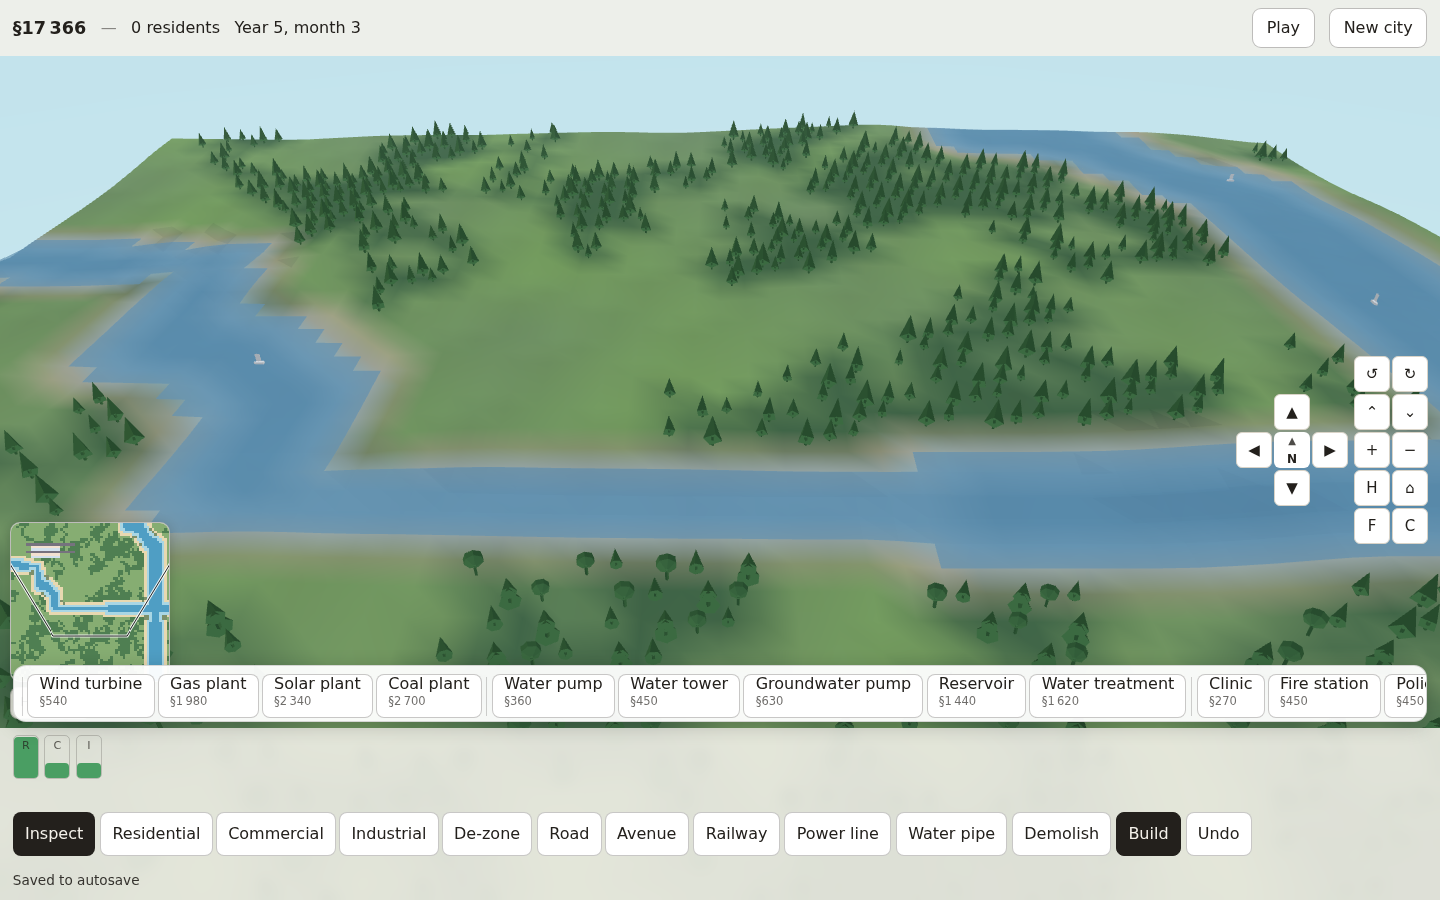
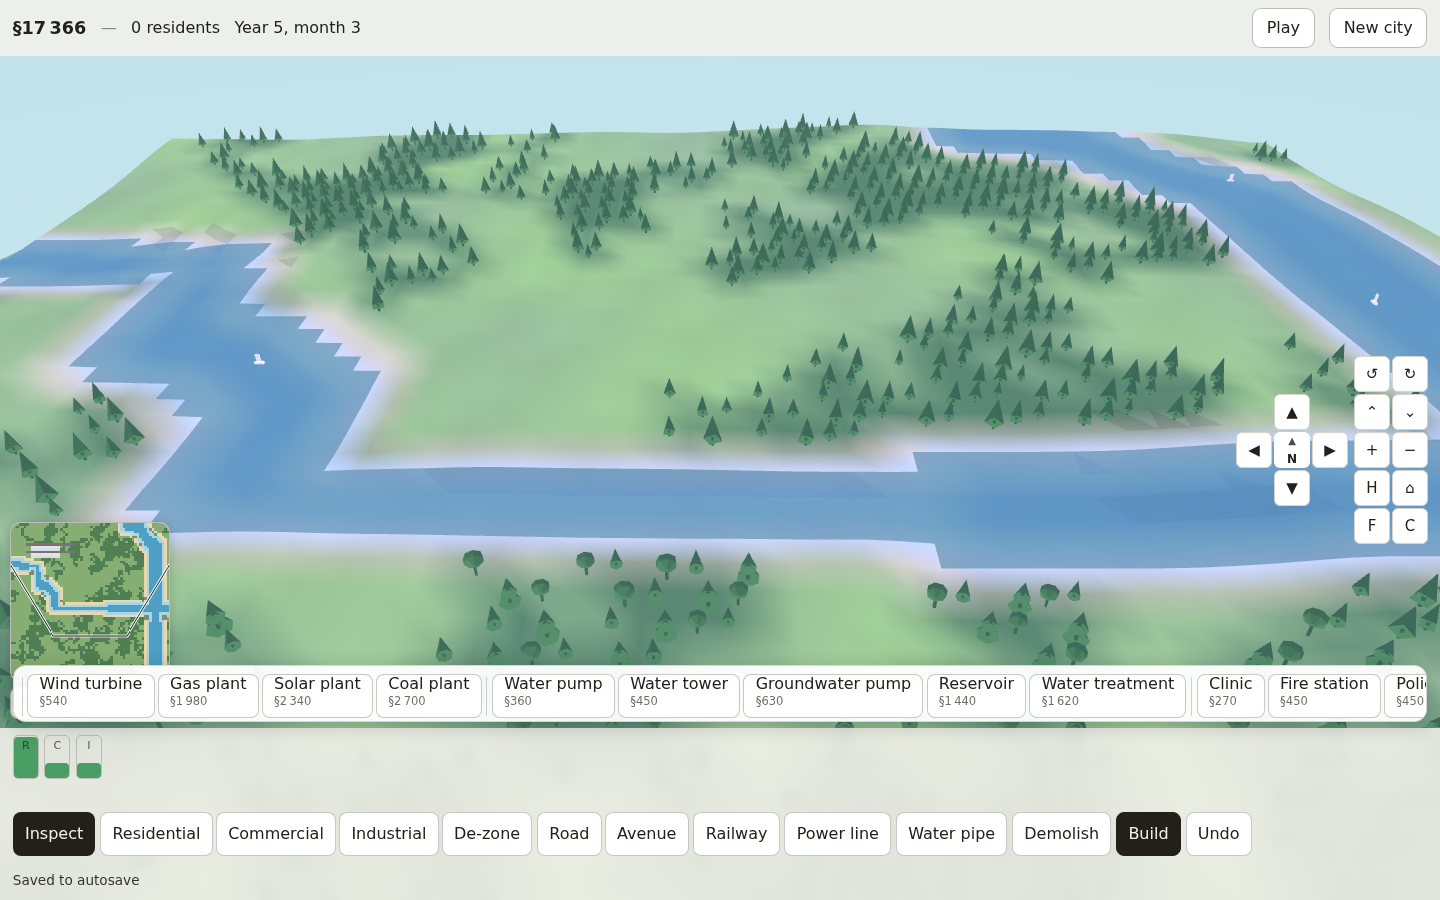
slice-S22e: the shadow's colour, and the patch that never ran
A145 asked for three things; S22d delivered two and could not do "the tint
cooler rather than the ground darker", because tintShadows patches a toon
material and plain — the style the game ships with — is Lambert. Wiring the
Lambert path found that the toon one had never worked either.

onBeforeCompile is handed a shader whose #include directives are not yet
resolved: three splices the chunks in afterwards. The toon patch replaced a line
from inside lights_toon_pars_fragment, so it never matched — and the anchor was
wrong anyway, since three's line ends `* directLight.color`. The painted style's
shadows have darkened rather than taken a colour for the whole life of the rig,
with a console.warn nobody collects and a test that read the source for the
words getGradientIrradiance, includes( and warn. All three were there.

client/render/shadow-shader.js is pure — chunk text in, patched text out — so
test/shadow-tint.test.js drives the real transforms over three's real chunks in
node, which is the only thing that could have caught this. Toon expands the
chunk and mixes irradiance toward the tint; Lambert remembers the shadow where
it is computed (cgShadow) and spends it on outgoingLight, which lives in the
fragment shader's own source. The uniform is declared at #include <common>,
because lights_fragment_begin sits inside main() and a uniform there will not
compile — that was the first run's console error. The tint is normalised to
[…]

diff --git a/client/render/style-assets.js b/client/render/style-assets.js
@@ -13,6 +13,8 @@
 import * as THREE from "three";
 import { PALETTES } from "./palettes.js";
 import { faceContrastFor, lightingFor } from "./style-light.js";
+import { normalisedTint, tintedToonChunk, tintedLambertChunk, tintedOutgoing } from "./shadow-shader.js";
+import { getConfig } from "../world/config.js";
 import { STYLES } from "./style-table.js";
 import { rampBytes } from "./ramps.js";
 
@@ -134,37 +136,65 @@ function gradientMap(kind) {
  * does nothing or produces a shader that will not compile. So it looks before
  * it leaps and says so when the shape is not what it expected.
  */
-const TOON_ANCHOR = "vec3 irradiance = getGradientIrradiance( geometryNormal, directLight.direction );";
-let warnedAboutToon = false;
+let warnedAboutTint = false;
 
-function tintShadows(material, tint) {
+/** Says once, and only once, that a patch could not find its anchor.
+ *
+ * Not an exception: a style that loses its shadow tint looks slightly wrong and
+ * a renderer that will not start is a game nobody can play. **But a warning is
+ * not a gate** — this one fired on every run for the life of the toon patch and
+ * nothing collected it (S22e), so `client_smoke` reads the console now. */
+function warnOnce(what) {
+  if (warnedAboutTint) return;
+  warnedAboutTint = true;
+  console.warn(`shadow tint: three's ${what} has changed shape; shadows will darken `
+    + "rather than take a colour");
+}
+
+/**
+ * The shadow's colour, for a toon material (`painted`) or a Lambert one
+ * (`plain`).
+ *
+ * **It patches by EXPANDING the chunk.** `onBeforeCompile` is handed a shader
+ * whose `#include <…>` directives are not yet resolved, so a replace aimed at a
+ * line inside one never matches — which is what the toon patch did for its
+ * whole life, warning once into a console nobody read while spec §7.2's
+ * temperature split was silently absent (S22e). The transforms are in
+ * `shadow-shader.js`, which is pure, so a node test can drive them over three's
+ * real chunks rather than reading this file for the word "warn".
+ */
+function tintShadows(material, tint, shading) {
   material.userData.shadowTint = tint;
+  const colour = normalisedTint(new THREE.Color(tint));
   material.onBeforeCompile = (shader) => {
-    shader.uniforms.uShadowTint = { value: new THREE.Color(tint) };
-    shader.fragmentShader = shader.fragmentShader.replace(
-      "#include <lights_toon_pars_fragment>",
-      "uniform vec3 uShadowTint;\n#include <lights_toon_pars_fragment>",
+    shader.uniforms.uShadowTint = { value: new THREE.Color(colour.r, colour.g, colour.b) };
+    // **The uniform is declared at GLOBAL scope**, which is what `#include
+    // <common>` is and what `lights_fragment_begin` is not: it sits inside
+    // `main()`, and declaring a uniform there is a shader that will not
+    // compile — "only allowed at global scope", which is what the first run of
+    // this patch said in a console error.
+    const declare = (source) => source.replace(
+      "#include <common>", "uniform vec3 uShadowTint;\n#include <common>",
     );
-    if (!shader.fragmentShader.includes(TOON_ANCHOR)) {
-      if (!warnedAboutToon) {
-        warnedAboutToon = true;
-        // Not an exception: a style that loses its shadow tint is a style that
-        // looks slightly wrong, and a renderer that will not start is a game
-        // nobody can play.
-        console.warn("toon shadow tint: three's lights_toon_pars_fragment has changed shape; "
-          + "shadows will darken rather than take a colour");
-      }
+    if (shading === "toon") {
+      const chunk = tintedToonChunk(THREE.ShaderChunk.lights_toon_pars_fragment);
+      if (!chunk) { warnOnce("lights_toon_pars_fragment"); return; }
+      shader.fragmentShader = declare(shader.fragmentShader)
+        .replace("#include <lights_toon_pars_fragment>", chunk);
       return;
     }
-    shader.fragmentShader = shader.fragmentShader.replace(
-      TOON_ANCHOR,
-      `${TOON_ANCHOR}
-      irradiance = mix( uShadowTint * ( 1.0 - irradiance.r ), irradiance, irradiance.r );`,
-    );
+    // Lambert: the shadow has to be remembered where it is computed, because a
+    // surface in shadow has simply lost the key light by the time the colour is
+    // assembled (S22e).
+    const lighting = tintedLambertChunk(THREE.ShaderChunk.lights_fragment_begin);
+    const outgoing = tintedOutgoing(shader.fragmentShader);
+    if (!lighting || !outgoing) { warnOnce(lighting ? "the fragment shader" : "lights_fragment_begin"); return; }
+    shader.fragmentShader = declare(outgoing)
+      .replace("#include <lights_fragment_begin>", lighting);
   };
   // Two materials that differ only in a uniform still share a program; one that
   // differs in its SOURCE must not.
-  material.customProgramCacheKey = () => `toon-tint-${tint}`;
+  material.customProgramCacheKey = () => `${shading}-tint-${tint}`;
   return material;
 }
 
@@ -252,7 +282,14 @@ export function makeMaterial(styleName, colour) {
       vertexColors: true,
       gradientMap: gradientMap(style.ramp ?? "3"),
     });
-    return tintShadows(material, lightingFor(styleName).shadowTint ?? 0x6a6ea8);
+    return tintShadows(material, lightingFor(styleName).shadowTint ?? 0x6a6ea8, "toon");
   }
-  return new THREE.MeshLambertMaterial({ color: colour, vertexColors: true });
+  // **And the Lambert path too** (S22e). A145 asked for "the tint cooler rather
+  // than the ground darker" and S22d could only give the second half, because
+  // this was the branch with no patch at all — `plain` is the style the game
+  // ships with.
+  return tintShadows(
+    new THREE.MeshLambertMaterial({ color: colour, vertexColors: true }),
+    lightingFor(styleName).shadowTint ?? getConfig().shadow.tint, "lambert",
+  );
 }

diff --git a/client/render/shadow-shader.js b/client/render/shadow-shader.js
@@ -1,0 +1,100 @@
+// The shadow's colour, as string surgery that can be tested (S22e).
+//
+// Pure: no three, no DOM, no geometry — it takes a shader chunk's text and
+// gives back the patched text, so `test/shadow-tint.test.js` can drive it over
+// three's real chunks in node. That is the whole reason this file exists apart
+// from `style-assets.js`, and the reason is a defect:
+//
+// **`onBeforeCompile` is handed a shader whose `#include <…>` directives are
+// not yet resolved.** The toon tint patched a line from INSIDE
+// `lights_toon_pars_fragment`, so the replace never matched, the warning fired
+// once into a console nobody collects, and the painted style's shadows have
+// darkened rather than taken a colour for the whole life of the rig — spec
+// §7.2's temperature split, silently absent. The test that was supposed to
+// hold it asserted the SHAPE of the code (`a-test-that-transcribes-a-line`).
+//
+// So a patch here expands the chunk itself and returns `undefined` when the
+// chunk is not the shape it expected, and the caller says so out loud.
+
+/** A colour, as three sees it, divided by its own luminance.
+ *
+ * "Cooler rather than darker" (A145) is a claim about LUMINANCE: multiplying a
+ * shadowed pixel by a tint of luminance 1 moves its hue and leaves its value
+ * where the shadow's own strength put it. A raw `0x6f6ba8` would darken the
+ * shadow a second time, on top of S22d's ladder. */
+export function normalisedTint({ r, g, b }) {
+  const luminance = r * 0.2126 + g * 0.7152 + b * 0.0722;
+  if (!(luminance > 0)) return { r: 1, g: 1, b: 1 };
+  return { r: r / luminance, g: g / luminance, b: b / luminance };
+}
+
+/** The line a toon shader computes its banded irradiance on.
+ *
+ * **With `* directLight.color`**, which the old constant left off — so the
+ * patch could not have matched even once the include was resolved. Two
+ * mistakes, one silent failure. */
+export const TOON_ANCHOR = "vec3 irradiance = getGradientIrradiance( geometryNormal, "
+  + "directLight.direction ) * directLight.color;";
+
+/**
+ * `lights_toon_pars_fragment`, with the shadow taking the tint.
+ *
+ * The toon ramp bands the direct light; where the band is dark the surface is
+ * in shadow, and `irradiance.r` is how lit it is. Mixing toward the tint by
+ * that amount is the temperature split: cool where the key does not reach,
+ * the key's own colour where it does.
+ */
+export function tintedToonChunk(chunk) {
+  if (typeof chunk !== "string" || !chunk.includes(TOON_ANCHOR)) return undefined;
+  return chunk.replace(
+    TOON_ANCHOR,
+    `${TOON_ANCHOR}
+\tirradiance = mix( uShadowTint * ( 1.0 - irradiance.r ), irradiance, irradiance.r );`,
+  );
+}
+
+/** The line a Lambert shader multiplies the key light by, in shadow. */
+export const LAMBERT_ANCHOR = "directLight.color *= ( directLight.visible && receiveShadow ) ? "
+  + "getShadow( directionalShadowMap[ i ], directionalLightShadow.shadowMapSize, "
+  + "directionalLightShadow.shadowIntensity, directionalLightShadow.shadowBias, "
+  + "directionalLightShadow.shadowRadius, vDirectionalShadowCoord[ i ] ) : 1.0;";
+
+/**
+ * `lights_fragment_begin`, with the directional shadow's own factor kept.
+ *
+ * A Lambert surface in shadow simply loses the key light, so there is nothing
+ * left to tint by the time the colour is assembled: the shadow has to be
+ * REMEMBERED where it is computed. `cgShadow` is 1 in full light and 0 in full
+ * shadow, and `tintedOpaqueChunk` below is what spends it.
+ */
+export function tintedLambertChunk(chunk) {
+  if (typeof chunk !== "string" || !chunk.includes(LAMBERT_ANCHOR)) return undefined;
+  return `float cgShadow = 1.0;\n${chunk}`.replace(
+    LAMBERT_ANCHOR,
+    `float cgShadowOne = ( directLight.visible && receiveShadow ) ? getShadow( directionalShadowMap[ i ], `
+    + `directionalLightShadow.shadowMapSize, directionalLightShadow.shadowIntensity, `
+    + `directionalLightShadow.shadowBias, directionalLightShadow.shadowRadius, `
+    + `vDirectionalShadowCoord[ i ] ) : 1.0;\n\t\tcgShadow = min( cgShadow, cgShadowOne );`
+    + `\n\t\tdirectLight.color *= cgShadowOne;`,
+  );
+}
+
+/** Where the lit colour becomes the pixel.
+ *
+ * In the fragment shader's OWN source rather than in a chunk — `meshlambert_frag`
+ * and `meshtoon_frag` both assemble it the same way — which means this one line
+ * is present in `shader.fragmentShader` as handed to `onBeforeCompile`, and no
+ * expansion is needed. */
+export const OUTGOING_ANCHOR = "vec3 outgoingLight = reflectedLight.directDiffuse + "
+  + "reflectedLight.indirectDiffuse + totalEmissiveRadiance;";
+
+/** The shader, with the shadowed part of the pixel pulled toward the tint — by
+ * HUE, because the tint's luminance is 1. */
+export function tintedOutgoing(source) {
+  if (typeof source !== "string" || !source.includes(OUTGOING_ANCHOR)) return undefined;
+  return source.replace(
+    OUTGOING_ANCHOR,
+    `${OUTGOING_ANCHOR}
+\toutgoingLight = mix( outgoingLight * uShadowTint, outgoingLight, cgShadow );`,
+  );
+}

diff --git a/test/shadow-tint.test.js b/test/shadow-tint.test.js
@@ -1,0 +1,84 @@
+// The shadow's colour, driven rather than read (S22e, 2026-10-13).
+//
+// `test/toon.test.js` has asserted since P2 that the toon patch "checks the
+// chunk it is patching" — by reading the SOURCE for a `warn` and an anchor
+// name. It passed for the whole life of the patch while the patch did nothing,
+// for two reasons at once:
+//
+//   1. `onBeforeCompile` is handed a shader whose `#include <…>` directives are
+//      **not yet resolved**, so a replace aimed at a line inside
+//      `lights_toon_pars_fragment` can never match; and
+//   2. the anchor was wrong anyway — three's line ends `* directLight.color`
+//      and the constant did not.
+//
+// So the painted style's shadows have darkened rather than taken a colour for
+// the whole life of the rig, which is spec §7.2's temperature split, and the
+// warning fired once into a console nobody collects. This file drives the real
+// transforms over three's real chunks. `a-test-that-transcribes-a-line`, paid
+// for again.
+
+import test from "node:test";
+import assert from "node:assert/strict";
+import * as THREE from "../vendor/three.module.js";
+import { normalisedTint, tintedToonChunk, tintedLambertChunk, tintedOutgoing,
+  TOON_ANCHOR, LAMBERT_ANCHOR, OUTGOING_ANCHOR } from "../client/render/shadow-shader.js";
+import { getConfig } from "../client/world/config.js";
+
+test("every anchor is a line three actually has", () => {
+  // The half that was false: a patch whose anchor is not in the chunk is a
+  // patch that does nothing, and nothing but a `console.warn` said so.
+  assert.ok(THREE.ShaderChunk.lights_toon_pars_fragment.includes(TOON_ANCHOR),
+    "the toon anchor is not in three's chunk");
+  assert.ok(THREE.ShaderChunk.lights_fragment_begin.includes(LAMBERT_ANCHOR),
+    "the Lambert anchor is not in three's chunk");
+  assert.ok(THREE.ShaderChunk.meshlambert_frag.includes(OUTGOING_ANCHOR),
+    "the outgoing-light anchor is not in the Lambert fragment shader");
+  assert.ok(THREE.ShaderChunk.meshtoon_frag.includes(OUTGOING_ANCHOR),
+    "the outgoing-light anchor is not in the toon fragment shader");
+});
+
+test("the toon chunk comes back with the tint mixed into its shadow", () => {
+  const patched = tintedToonChunk(THREE.ShaderChunk.lights_toon_pars_fragment);
+  assert.ok(patched, "the toon patch refused three's own chunk");
+  assert.match(patched, /uShadowTint \* \( 1\.0 - irradiance\.r \)/);
+  assert.ok(patched.includes(TOON_ANCHOR), "the patch dropped the line it was anchored on");
+});
+
+test("the Lambert chunk remembers how shadowed the pixel is, and the pixel spends it", () => {
+  // A Lambert surface in shadow has simply lost the key light, so there is
+  // nothing left to tint by the time the colour is assembled: the shadow has to
+  // be kept where it is computed.
+  const lighting = tintedLambertChunk(THREE.ShaderChunk.lights_fragment_begin);
+  assert.ok(lighting, "the Lambert patch refused three's own chunk");
+  assert.match(lighting, /float cgShadow = 1\.0;/, "nothing declares the shadow factor");
+  assert.match(lighting, /cgShadow = min\( cgShadow, cgShadowOne \);/, "the factor is never kept");
+  assert.match(lighting, /directLight\.color \*= cgShadowOne;/, "the light is no longer shadowed");
+
+  const outgoing = tintedOutgoing(THREE.ShaderChunk.meshlambert_frag);
+  assert.ok(outgoing, "the outgoing patch refused the Lambert fragment shader");
+  assert.match(outgoing, /mix\( outgoingLight \* uShadowTint, outgoingLight, cgShadow \)/);
+});
+
+test("a patch that cannot find its anchor says so rather than pretending", () => {
+  // The failure mode this file exists for: every transform returns `undefined`
+  // on a chunk it does not recognise, and the caller warns. A transform that
+  // returned the chunk unchanged would be the silent failure again.
+  assert.equal(tintedToonChunk("nothing like a shader"), undefined);
+  assert.equal(tintedLambertChunk("nothing like a shader"), undefined);
+  assert.equal(tintedOutgoing("nothing like a shader"), undefined);
+  assert.equal(tintedToonChunk(undefined), undefined);
+});
+
+test("a tint that is only a hue: the shadow keeps its value", () => {
+  // "Cooler rather than darker" (A145) is a claim about LUMINANCE. The uniform
+  // is the configured colour divided by its own luminance, so multiplying a
+  // shadowed pixel by it moves the hue and leaves the value where S22d's ladder
+  // put it — a raw `0x6f6ba8` would darken the shadow a second time.
+  const tint = normalisedTint(new THREE.Color(getConfig().shadow.tint));
+  const luminance = tint.r * 0.2126 + tint.g * 0.7152 + tint.b * 0.0722;
+  assert.ok(Math.abs(luminance - 1) < 0.001,
+    `the tint's luminance is ${luminance.toFixed(4)}; it has to be 1`);
+  assert.ok(tint.b > tint.r, "a cool tint has more blue in it than red");
+  assert.deepEqual(normalisedTint({ r: 0, g: 0, b: 0 }), { r: 1, g: 1, b: 1 },
+    "a black tint would divide by zero; white is the no-op");
+});

diff --git a/test/toon.test.js b/test/toon.test.js
@@ -181,17 +181,20 @@ test("the shadow camera follows the target and snaps to a texel", () => {
 
 // --- the shadow tint ---------------------------------------------------------
 
-test("the toon patch checks the chunk it is patching", () => {
-  // `onBeforeCompile` string surgery on three's own shader is the most brittle
-  // thing in the renderer: a version bump changes a chunk and the patch either
-  // does nothing or produces a shader that will not compile. It has to look
-  // before it leaps, and say so when the shape is not what it expected.
-  // The whole helper, not just from `onBeforeCompile`: the anchor it looks for
-  // is a constant declared above it.
-  const patch = assets.slice(assets.indexOf("const TOON_ANCHOR"), assets.indexOf("export function makeMaterial"));
-  assert.match(patch, /getGradientIrradiance/, "the patch does not name what it is replacing");
-  assert.match(patch, /includes\(|indexOf\(/, "the patch does not check the chunk first");
-  assert.match(patch, /warn/, "a failed patch is silent");
+test("the toon patch says so when it cannot patch", () => {
+  // **This test used to read the source for an anchor name and a `warn`, and
+  // it passed for the whole life of a patch that did nothing** (S22e): the
+  // anchor was a line three does not have, and `onBeforeCompile` is handed a
+  // shader whose includes are unresolved, so the replace could never match.
+  // What the patch DOES is driven in `test/shadow-tint.test.js` now, over
+  // three's real chunks; what is left here is the half that is about this file
+  // — a failed patch has to be loud enough to find.
+  const patch = assets.slice(assets.indexOf("function warnOnce"), assets.indexOf("export function makeMaterial"));
+  assert.match(patch, /warnOnce\(/, "a failed patch is silent");
+  assert.match(patch, /tintedToonChunk|tintedLambertChunk/,
+    "the patch no longer goes through the transforms a test can drive");
+  assert.doesNotMatch(patch, /#include <lights_fragment_begin>", `uniform/,
+    "a uniform declared inside main() is a shader that will not compile");
 });
 
 // --- the painted palette -----------------------------------------------------

diff --git a/dev-log.md b/dev-log.md
@@ -16488,3 +16488,62 @@ tables exported with no reader outside `options-model.js`, which the test above
 fixes rather than the export being deleted — the convention the file already
 had. Nothing else: `playtest-notes.md` is the one document that mattered and it
 is Part 4's turn now.
+
+## S22e — the shadow's colour, and the patch that never ran (2026-10-13)
+
+A145 asked for three things and S22d delivered two: the numbers as data, and a
+shadow 14% darker where it was 8%. The third was *"the tint cooler rather than
+the ground darker"*, which S22d could not do because `tintShadows` patches a
+**toon** material and `plain` — the style the game ships with — is Lambert.
+
+Wiring the Lambert path found that the toon one had never worked either.
+
+### Two mistakes, one silence
+
+`onBeforeCompile` is handed a shader whose **`#include <…>` directives are not
+yet resolved**: three splices the chunks in afterwards, inside `WebGLProgram`.
+The toon patch replaced a line from *inside* `lights_toon_pars_fragment`, so the
+replace never matched. And the anchor was wrong anyway — three's line ends
+`* directLight.color` and the constant did not.
+
+So **the painted style's shadows have darkened rather than taken a colour for
+the whole life of the rig** — spec §7.2's temperature split, the thing the whole
+anime rig is about, silently absent. The patch even warned, once, with
+`console.warn`, into a console no gate collects. And the test that was supposed
+to hold it — *"the toon patch checks the chunk it is patching"* — read the
+SOURCE for the words `getGradientIrradiance`, `includes(` and `warn`. All three
+were there. `a-test-that-transcribes-a-line`, paid for again.
+
+### What it is now
+
+`client/render/shadow-shader.js` is pure — chunk text in, patched text out — so
+`test/shadow-tint.test.js` drives the real transforms over **three's real
+chunks** in node, which is the only thing that could have caught this. Each
+transform returns `undefined` for a chunk it does not recognise, and the caller
+warns once.
+
+- **Toon**: the chunk is expanded by the patch and `irradiance` is mixed toward
+  the tint where the ramp is dark.
+- **Lambert**: a surface in shadow has simply *lost* the key light by the time
+  the colour is assembled, so the shadow is remembered where it is computed —
+  `cgShadow` — and spent on `outgoingLight`, which lives in the fragment
+  shader's own source rather than in a chunk.
+- **The uniform is declared at `#include <common>`**, because
+  `lights_fragment_begin` sits inside `main()` and a uniform there is a shader
+  that will not compile. That was the first run's console error.
+- **The tint is normalised to luminance 1**, so multiplying by it shifts hue and
+  not value: "cooler rather than darker", in arithmetic.
+
+### Measured
+
+`sun_shots`' A/B now reports both halves of the claim:
+
+```
+noon: the cast shadow covers 84,639 px (9.2% of the frame),
+      median 16% darker and 20 cooler (blue over red, 0-255)
+```
+
+14% → **16% darker** and **0 → 20 points cooler**, with a floor of 6 in the gate
+— a third of what was measured, which catches the patch falling off the way it
+fell off before. `shots` 304/390, `kits` green, `budget` 268/330, `quick`
+green, suite **2,139 twice**.
